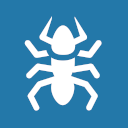
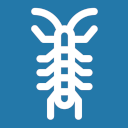
Add more insect clades, to match species selector

Changed region(s): [[0.1875, 0.0312, 0.8125, 0.9375]]

diff --git a/htdocs/info/about/image_credits.html b/htdocs/info/about/image_credits.html
@@ -7,10 +7,15 @@
 <a href="https://www.thenounproject.com">The Noun Project</a>. Individual image credits are as follows:</p>
 
 <ul>
+<li><a href="https://thenounproject.com/icon/aphids-1975981">Aphid: ProSymbols</a></li>
+<li><a href="https://thenounproject.com/icon/bee-2587528">Bee: dewadesign</a></li>
+<li><a href="https://thenounproject.com/icon/beetle-2052451">Beetle: Vectors Market</a></li>
 <li><a href="https://thenounproject.com/search/?q=dove&i=203204">Bird: parkjisun</a></li>
 <li><a href="https://thenounproject.com/search/?q=butterfly&i=16615">Butterfly: Evan MacDonald</a></li>
+<li><a href="https://thenounproject.com/icon/centipede-3548408">Centipede: Ton</a></li>
 <li><a href="https://thenounproject.com/search/?q=cell&i=1906428">Eukaryote cell: Nhor</a></li>
 <li><a href="https://thenounproject.com/term/fish/1164579/">Fish: Andy Mc</a></li>
+<li><a href="https://thenounproject.com/icon/fly-3342418">Fly: Andrew Doane</a></li>
 <li><a href="https://thenounproject.com/search/?q=frog&i=1469289">Frog: Morco Livolsi</a></li>
 <li><a href="https://thenounproject.com/search/?q=fungus&i=2193344">Fungus: Designer468</a></li>
 <li><a href="https://thenounproject.com/search/?q=vitruvian+man&i=215751">Human: I Create Stuff</a></li>
